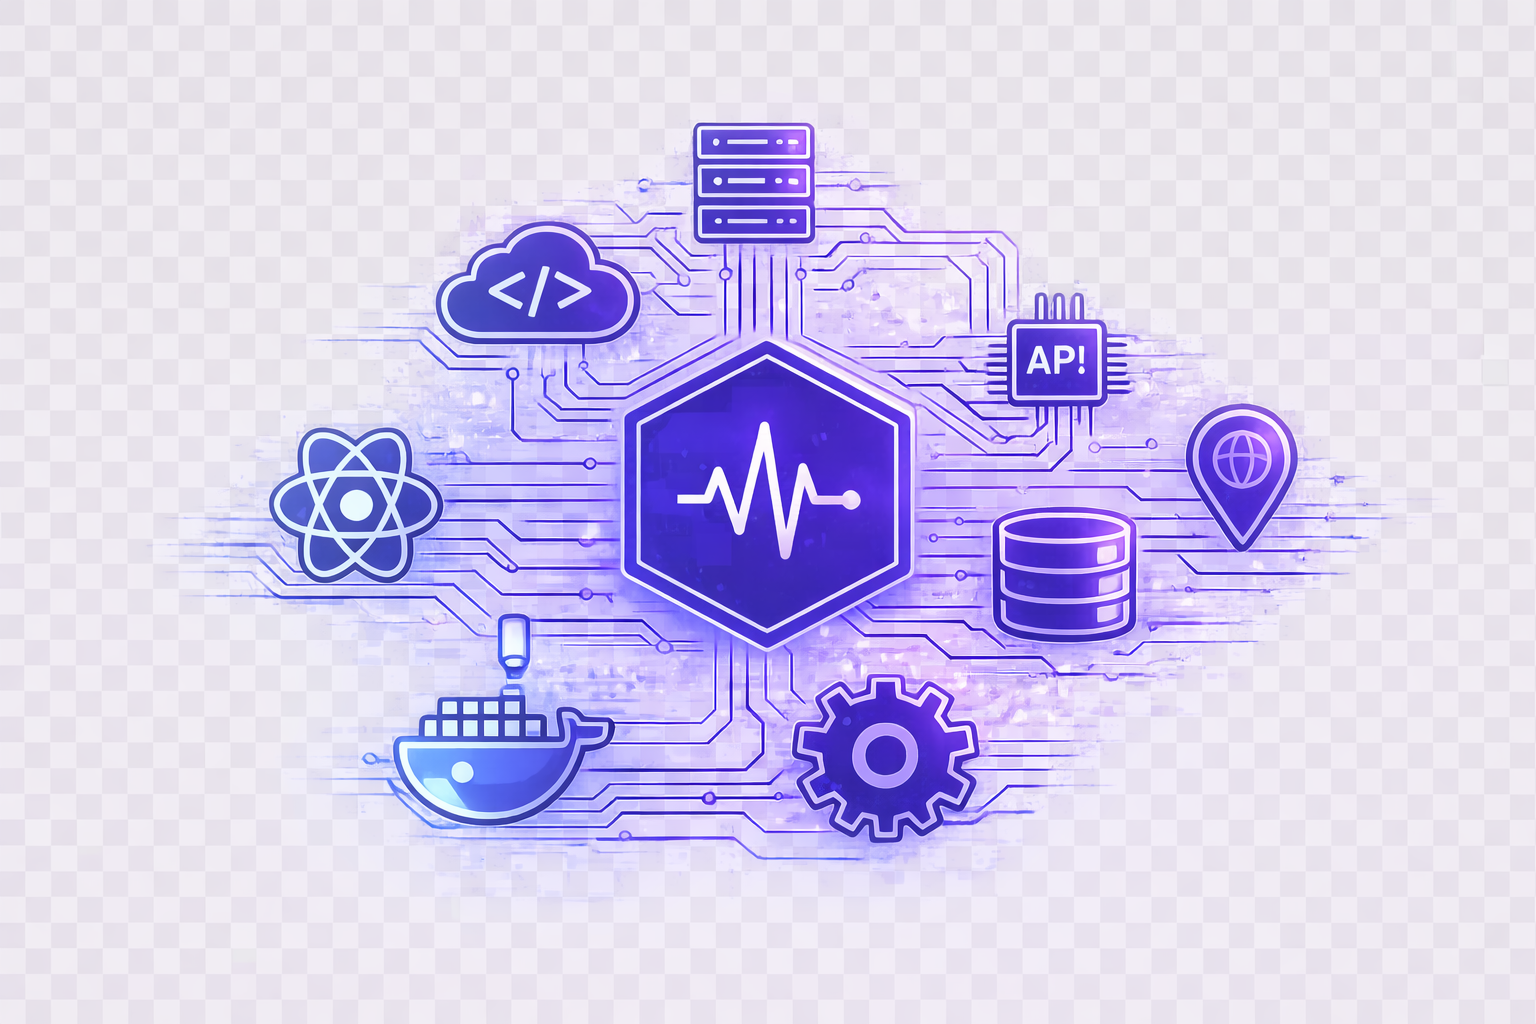
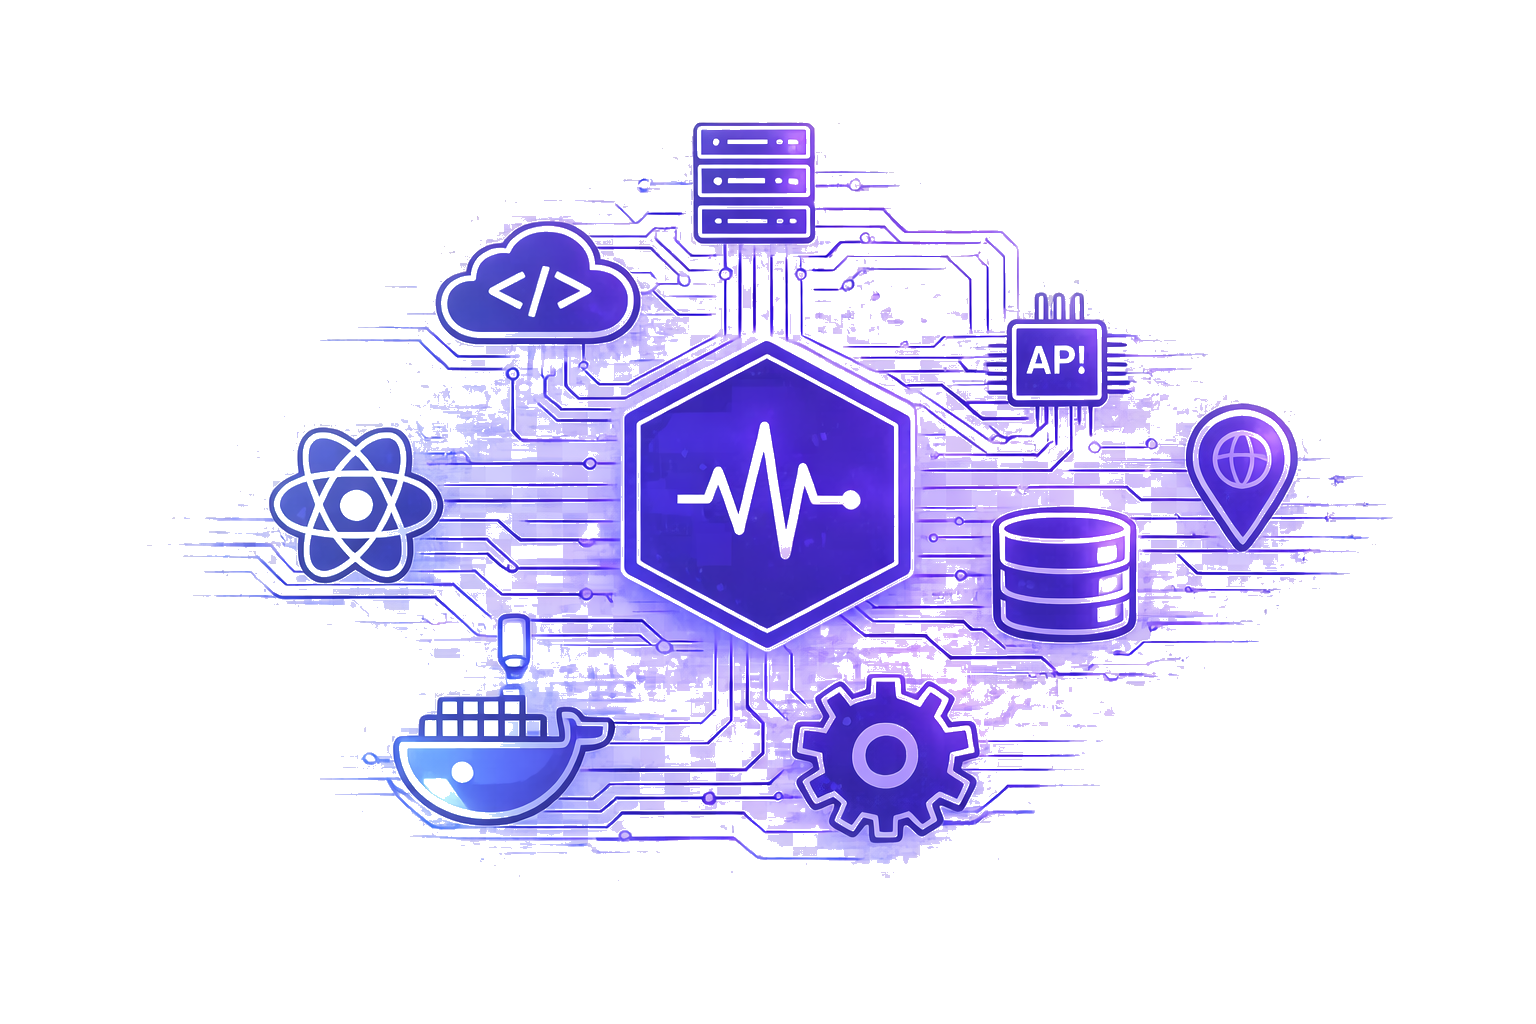
feat: use separate ecosystem illustrations with transparent backgrounds
· Left side: ecosystem hub icon, right side: dashboard preview
· Reduced size to 480x320 for better balance
· Removed white backgrounds via ImageMagick
· Consistent indigo filters across all sections

diff --git a/src/components/sections/Ecosystem.tsx b/src/components/sections/Ecosystem.tsx
@@ -425,7 +425,7 @@ export function Ecosystem() {
         whileInView={{ opacity: 1, scale: 1, filter: "blur(0px)" }}
         viewport={{ once: true }}
         transition={{ duration: 1.4, delay: 0.3, ease: [0.16, 1, 0.3, 1] }}
-        className="hidden md:block absolute -top-4 -left-36 lg:-left-24 z-10 pointer-events-none"
+        className="hidden md:block absolute -top-4 -left-28 lg:-left-16 z-10 pointer-events-none"
       >
         <motion.div
           animate={{
@@ -439,9 +439,9 @@ export function Ecosystem() {
             <Image
               src="/ecosystem-icon.png"
               alt=""
-              width={640}
-              height={420}
-              className="w-[640px] h-[420px] opacity-[0.12] dark:opacity-[0.22] select-none hue-rotate-[40deg] saturate-[1.8] brightness-[0.9]"
+              width={480}
+              height={320}
+              className="w-[480px] h-[320px] opacity-[0.12] dark:opacity-[0.22] select-none hue-rotate-[40deg] saturate-[1.8] brightness-[0.9]"
               draggable={false}
               priority={false}
             />
@@ -449,13 +449,13 @@ export function Ecosystem() {
         </motion.div>
       </motion.div>
 
-      {/* Ecosystem illustration - right, desktop only */}
+      {/* Dashboard illustration - right, desktop only */}
       <motion.div
         initial={{ opacity: 0, scale: 0.4, filter: "blur(24px)" }}
         whileInView={{ opacity: 1, scale: 1, filter: "blur(0px)" }}
         viewport={{ once: true }}
         transition={{ duration: 1.4, delay: 0.5, ease: [0.16, 1, 0.3, 1] }}
-        className="hidden md:block absolute top-4 -right-36 lg:-right-24 z-10 pointer-events-none"
+        className="hidden md:block absolute top-4 -right-28 lg:-right-16 z-10 pointer-events-none"
       >
         <motion.div
           animate={{
@@ -467,11 +467,11 @@ export function Ecosystem() {
           <div className="relative">
             <div className="absolute inset-0 bg-indigo-500/5 rounded-full blur-3xl scale-75" />
             <Image
-              src="/ecosystem-icon.png"
+              src="/ecosystem-dashboard.png"
               alt=""
-              width={640}
-              height={420}
-              className="w-[640px] h-[420px] opacity-[0.12] dark:opacity-[0.22] select-none hue-rotate-[40deg] saturate-[1.8] brightness-[0.9] -scale-x-100"
+              width={480}
+              height={320}
+              className="w-[480px] h-[320px] opacity-[0.12] dark:opacity-[0.22] select-none hue-rotate-[40deg] saturate-[1.8] brightness-[0.9]"
               draggable={false}
               priority={false}
             />
